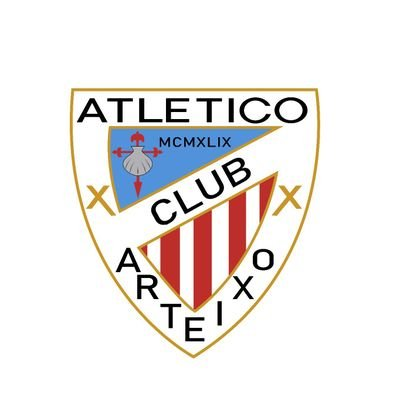
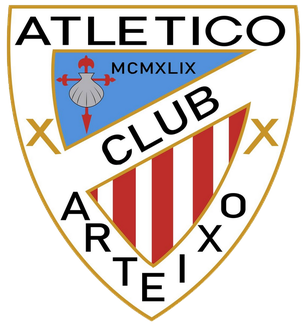
Cambios en imagenes y nombres de la const de los equipos en los JS

diff --git a/js/getClasificacion.js b/js/getClasificacion.js
@@ -3,15 +3,14 @@ const CSV_URL_CLASIFICACION =
 
 const escudos = {
   "C.D.Lugo": "img/equipos/lugo.png",
-  "S.R. Calo": "img/equipos/calo.jpeg",
-  "Familaçao": "img/equipos/familiaçao.png",
-  "F.C. Famalicão": "img/equipos/familiaçao.png",
-  "Ural C.F.": "img/equipos/ural.jpg",
+  "S.R. Calo": "img/equipos/calo.png",
+  "Famalicao": "img/equipos/familiaçao.png",
   "Santa Mariña": "img/equipos/santamarina.png",
+  "Ural C.F.": "img/equipos/ural.png",
   "Pabellón Ourense": "img/equipos/pabellon.png",
   "S.D. Villestro": "img/equipos/villestro.png",
   "Val Miñor": "img/equipos/valminor.jpg",
-  "SP. Portugal Acad.": "img/equipos/spacademy.jpg",
+  "SP. Portugal Acad.": "img/equipos/spacademy.png",
   "Victoria C.F.": "img/equipos/victoria.png",
   "G.D. Chaves": "img/equipos/chaves.png",
   "Atl. Arteixo": "img/equipos/arteixo.png",

diff --git a/js/getEliminatorias.js b/js/getEliminatorias.js
@@ -3,14 +3,14 @@ const CSV_URL_RESULTADOS =
 
 const escudos = {
   "C.D. Lugo": "img/equipos/lugo.png",
-  "S.R. Calo": "img/equipos/calo.jpeg",
+  "S.R. Calo": "img/equipos/calo.png",
   "F.C. Famalicão": "img/equipos/familiaçao.png",
   "Santa Mariña": "img/equipos/santamarina.png",
-  "Ural C.F.": "img/equipos/ural.jpg",
+  "Ural C.F.": "img/equipos/ural.png",
   "Pabellón Ourense": "img/equipos/pabellon.png",
   "S.D. Villestro": "img/equipos/villestro.png",
   "Val Miñor": "img/equipos/valminor.jpg",
-  "Sp. Portugal": "img/equipos/spacademy.jpg",
+  "Sp. Portugal": "img/equipos/spacademy.png",
   "Victoria C.F.": "img/equipos/victoria.png",
   "G.D. Chaves": "img/equipos/chaves.png",
   "Atl. Arteixo": "img/equipos/arteixo.png",

diff --git a/js/getResultados.js b/js/getResultados.js
@@ -5,14 +5,14 @@ const CSV_URL_RESULTADOS =
 
 const escudos = {
   "C.D. Lugo": "img/equipos/lugo.png",
-  "S.R. Calo": "img/equipos/calo.jpeg",
+  "S.R. Calo": "img/equipos/calo.png",
   "F.C. Famalicão": "img/equipos/familiaçao.png",
   "Santa Mariña": "img/equipos/santamarina.png",
-  "Ural C.F.": "img/equipos/ural.jpg",
+  "Ural C.F.": "img/equipos/ural.png",
   "Pabellón Ourense": "img/equipos/pabellon.png",
   "S.D. Villestro": "img/equipos/villestro.png",
   "Val Miñor": "img/equipos/valminor.jpg",
-  "Sp. Portugal": "img/equipos/spacademy.jpg",
+  "Sp. Portugal": "img/equipos/spacademy.png",
   "Victoria C.F.": "img/equipos/victoria.png",
   "G.D. Chaves": "img/equipos/chaves.png",
   "Atl. Arteixo": "img/equipos/arteixo.png",

diff --git a/js/getResultadosEquipo.js b/js/getResultadosEquipo.js
@@ -5,14 +5,14 @@ const CSV_URL_RESULTADOS =
 
 const escudos = {
   "C.D. Lugo": "img/equipos/lugo.png",
-  "S.R. Calo": "img/equipos/calo.jpeg",
+  "S.R. Calo": "img/equipos/calo.png",
   "F.C. Famalicão": "img/equipos/familiaçao.png",
   "Santa Mariña": "img/equipos/santamarina.png",
-  "Ural C.F.": "img/equipos/ural.jpg",
+  "Ural C.F.": "img/equipos/ural.png",
   "Pabellón Ourense": "img/equipos/pabellon.png",
   "S.D. Villestro": "img/equipos/villestro.png",
   "Val Miñor": "img/equipos/valminor.jpg",
-  "Sp. Portugal": "img/equipos/spacademy.jpg",
+  "Sp. Portugal": "img/equipos/spacademy.png",
   "Victoria C.F.": "img/equipos/victoria.png",
   "G.D. Chaves": "img/equipos/chaves.png",
   "Atl. Arteixo": "img/equipos/arteixo.png",

diff --git a/equipos.html b/equipos.html
@@ -80,7 +80,7 @@
           <div class="card">
             <div class="card-inner">
               <div class="card-front">
-                <img src="img/equipos/ural.jpg" alt="Ural-Español" />
+                <img src="img/equipos/ural.png" alt="Ural-Español" />
               </div>
               <div class="card-back">
                 <h3>Ural-Español C.F</h3>
